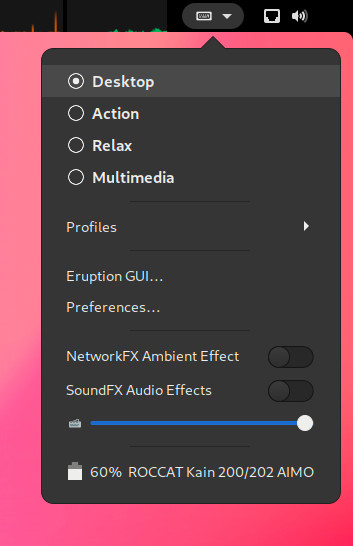
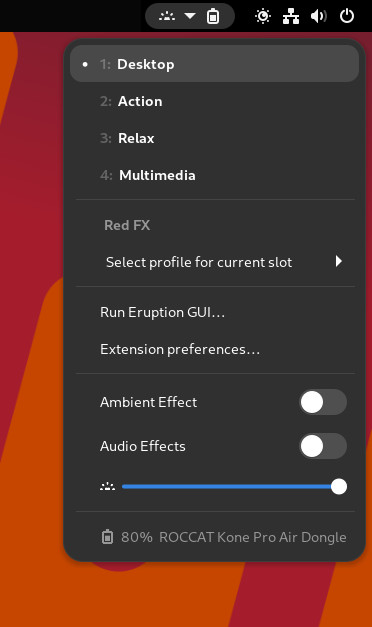
Feature updates
Update l10n for language: de
Minor fixes to the UI
Provide updated screenshots

diff --git a/prefs.js b/prefs.js
@@ -39,13 +39,15 @@ const ngettext = Domain.ngettext;
 
 var settings;
 
-function init() { }
+function init() {
+	ExtensionUtils.initTranslations(Me.metadata.uuid);
+}
 
 function buildPrefsWidget() {
 	let builder = new Gtk.Builder();
 
 	builder.set_scope(new MyBuilderScope());
-	// builder.set_translation_domain("eruption-profile-switcher@x3n0m0rph59.org");
+	builder.set_translation_domain("eruption-profile-switcher@x3n0m0rph59.org");
 	builder.add_from_file(Me.dir.get_path() + "/prefs.ui");
 
 	let provider = new Gtk.CssProvider();
